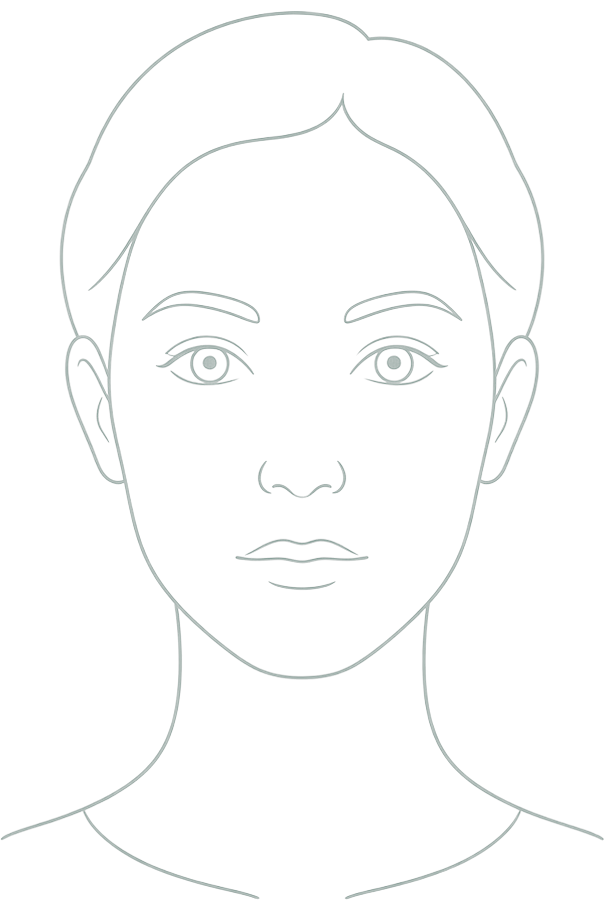
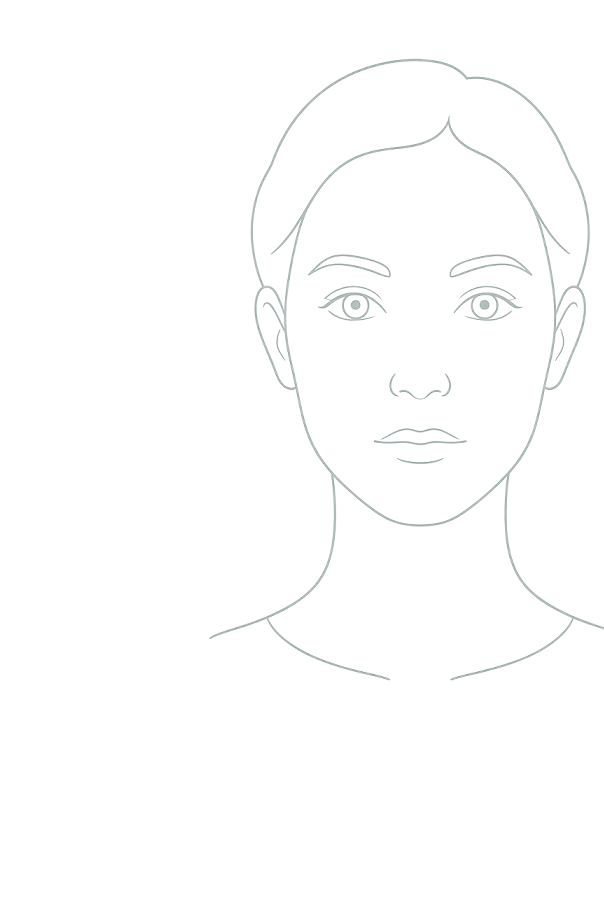
정면 얼굴: 전체 얼굴 보이게 0.7배 턱관절 정렬, 진하기 40%

diff --git a/index.html b/index.html
@@ -532,11 +532,10 @@ header nav{width:100%;justify-content:center;border-top:1px solid var(--line);pa
 /* ── 대문 얼굴: 정면을 측면 뒤에 옅게 겹침 ── */
 .face{animation:draw 3.1s cubic-bezier(.6,.05,.3,1) .5s forwards;z-index:2}
 .face-front{-webkit-mask-image:none;mask-image:none;z-index:1;opacity:0;
-  transform:translateX(-30%) scale(.92);transform-origin:bottom center;
   animation:faceghost 1.8s ease 2.8s forwards}
-@keyframes faceghost{to{opacity:.2}}
+@keyframes faceghost{to{opacity:.4}}
 @media (prefers-reduced-motion: reduce){
-  .face-front{animation:none;opacity:.2}
+  .face-front{animation:none;opacity:.4}
 }
 </style>
 </head>
